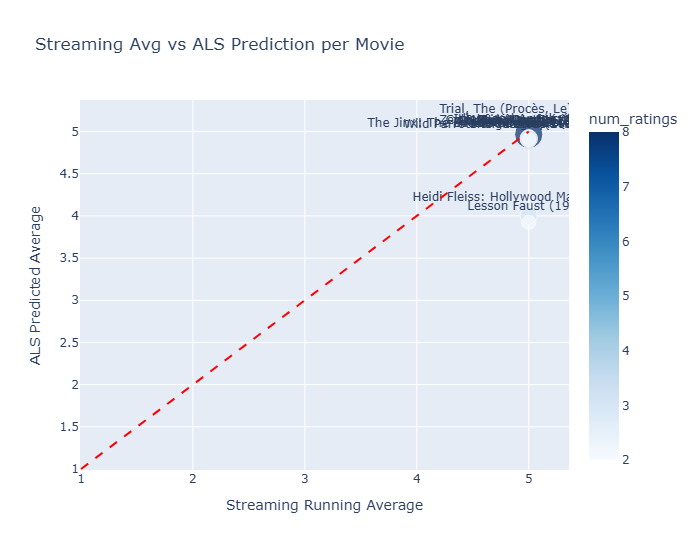
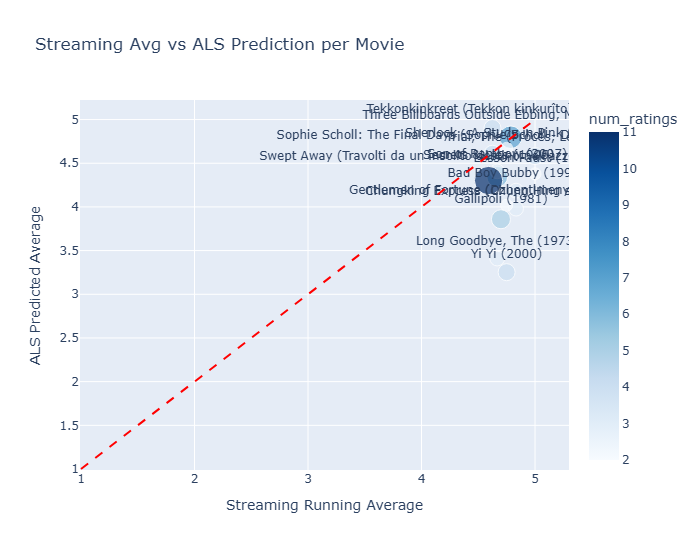
change to als

diff --git a/batch_als.py b/batch_als.py
@@ -41,10 +41,10 @@ if not raw_files:
     print(f"No files found in {RAW_DIR} — run Phase 5 first.")
     exit(1)
 
-# Load into Spark DataFrame
-df = spark.read.parquet(*raw_files)
+# Load into Spark DataFrame and deduplicate
+df = spark.read.parquet(*raw_files).dropDuplicates(["userId", "movieId"])
 df.cache()
-print(f"  Records loaded: {df.count():,}")
+print(f"  Records loaded (deduplicated): {df.count():,}")
 
 # ── Prepare data for ALS ──────────────────────────────────────────────────
 # ALS requires integer IDs — convert string userId and movieId to integers
